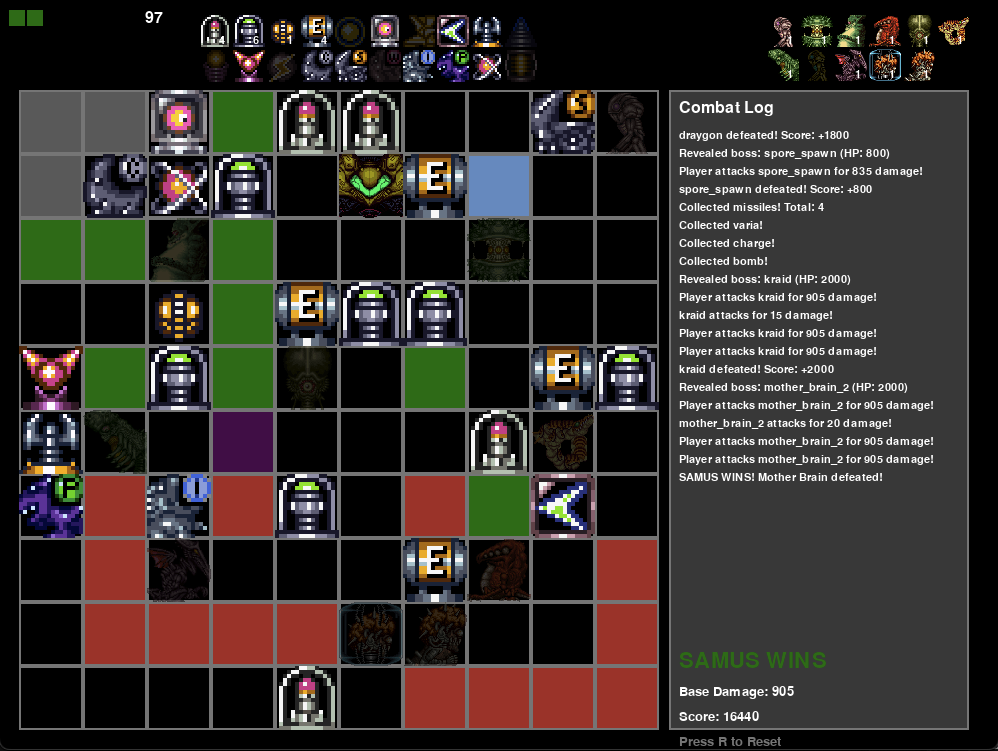
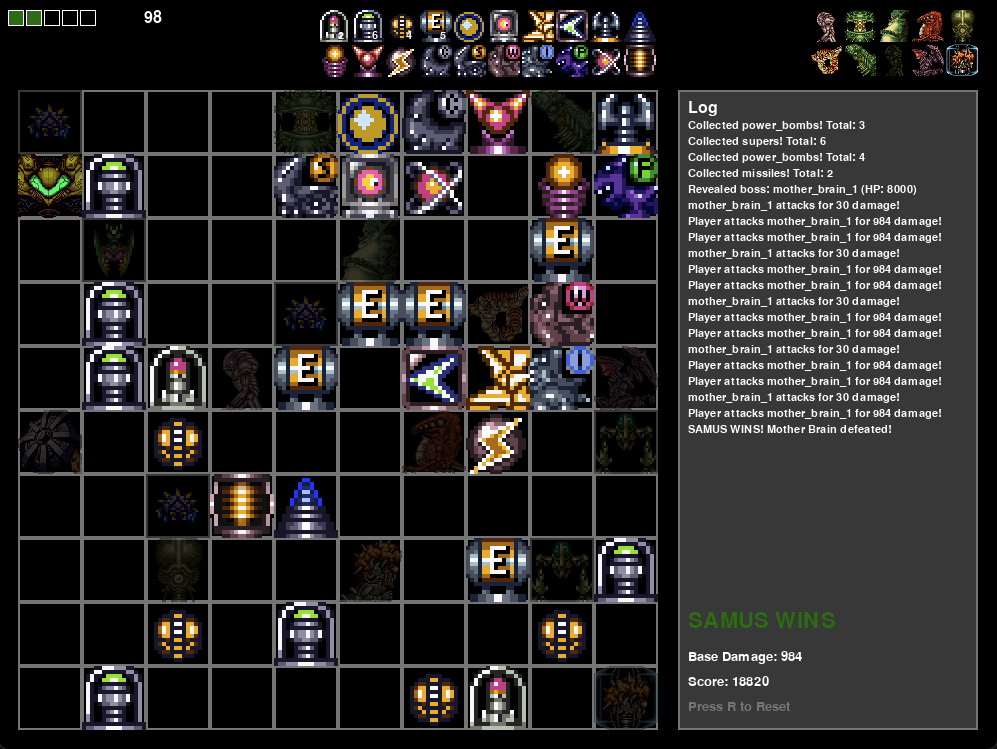
v1 demo ready

diff --git a/main.py b/main.py
@@ -25,7 +25,7 @@ INVENTORY_Y = 10  # Moved up
 HUD_WIDTH = 300  # Width for right-side combat info
 COMBAT_INFO_X = GRID_START_X + (GRID_SIZE * TILE_SIZE) + 20  # Right of grid with 10px spacing
 BOSS_HUD_WIDTH = 200  # Width for boss tracker
-BOSS_HUD_X = SCREEN_WIDTH - BOSS_HUD_WIDTH - 10  # Top right corner
+BOSS_HUD_X = SCREEN_WIDTH - BOSS_HUD_WIDTH - 20  # Top right corner
 
 # Colors
 BLACK = (0, 0, 0)
@@ -152,11 +152,11 @@ class Game:
             "gravity": False,   # Unique item (suit)
         }
         
-        # Initialize boss defeats tracking (no ship, ceres_station, or golden_four)
+        # Initialize boss defeats tracking (no ship or golden_four)
         boss_list = [
             "bomb_torizo", "spore_spawn", "kraid", "crocomire",
             "phantoon", "botwoon", "draygon", "gold_torizo",
-            "ridley", "mother_brain_1"
+            "ridley", "mother_brain_1", "ceres_station"
         ]
         self.boss_defeats = {boss: 0 for boss in boss_list}
         
@@ -196,15 +196,15 @@ class Game:
                 "color": MARIDIA_BLUE
             },
             AreaType.TOURIAN: {
-                "bosses": ["mother_brain_1"],
-                "unique_items": ["xray", "gravity"],
+                "bosses": ["mother_brain_1", "mother_brain_2"],
+                "unique_items": ["xray"],
                 "consumables": ["missiles", "supers", "power_bombs", "energy_tank"],
                 "enemies": ["side_hopper", "ciser"],
                 "color": TOURIAN_YELLOW
             },
             AreaType.WRECKED_SHIP: {
                 "bosses": ["phantoon"],
-                "unique_items": [],  # No unique items in Wrecked Ship
+                "unique_items": ["gravity"],  # Gravity Suit found in Wrecked Ship
                 "consumables": ["missiles", "supers", "power_bombs", "energy_tank"],
                 "enemies": ["geemer", "skree"],
                 "color": WRECKED_SHIP_PURPLE
@@ -230,6 +230,7 @@ class Game:
             "gold_torizo": 3000,
             "ridley": 6000,
             "mother_brain_1": 8000,
+            "mother_brain_2": 4000,
             "samus_ship": 0,  # Ship has no health - it's the starting point
             "ceres_station": 1000,
             "golden_four": 6000
@@ -254,41 +255,60 @@ class Game:
         # Create area map (hidden from player)
         self.area_map = [[None for _ in range(GRID_SIZE)] for _ in range(GRID_SIZE)]
         
-        # Step 1: Build connected areas first using seed points
-        area_types = list(areas.keys())
-        area_seeds = []
+        # Step 1: Define all area types that MUST be placed
+        all_area_types = list(areas.keys())
         
-        # Place area seed points with good spacing
-        seed_positions = [
-            (2, 2), (7, 2), (2, 7), (7, 7), (4, 4), (0, 0), (9, 0)
-        ]
+        # Step 2: Place each area type with guaranteed minimum size and connectivity
+        for area_type in all_area_types:
+            # Find a suitable starting position
+            attempts = 0
+            while attempts < 50:  # Prevent infinite loops
+                if area_type == AreaType.CRATERIA:
+                    # Crateria should start near top-left (ship location)
+                    start_x, start_y = random.randint(0, 3), random.randint(0, 3)
+                elif area_type == AreaType.TOURIAN:
+                    # Tourian should be in a corner (Mother Brain's lair)
+                    corner = random.choice([(0, 0), (9, 0), (0, 9), (9, 9)])
+                    start_x, start_y = corner
+                elif area_type == AreaType.WRECKED_SHIP:
+                    # Wrecked ship should be smaller and isolated
+                    start_x, start_y = random.randint(1, 8), random.randint(1, 8)
+                else:
+                    # Other areas can be anywhere
+                    start_x, start_y = random.randint(1, 8), random.randint(1, 8)
+                
+                # Check if this position is available
+                if self.area_map[start_y][start_x] is None:
+                    break
+                attempts += 1
+            
+            # If we couldn't find a spot, pick the first available None
+            if attempts >= 50:
+                for y in range(GRID_SIZE):
+                    for x in range(GRID_SIZE):
+                        if self.area_map[y][x] is None:
+                            start_x, start_y = x, y
+                            break
+                    else:
+                        continue
+                    break
+            
+            # Determine area size based on type
+            if area_type == AreaType.WRECKED_SHIP:
+                area_size = random.randint(6, 12)  # Smaller area
+            elif area_type == AreaType.CERES:
+                area_size = random.randint(8, 15)  # Medium area
+            else:
+                area_size = random.randint(12, 25)  # Larger areas
+            
+            # Create the connected area
+            self.flood_fill_area(start_x, start_y, area_type, area_size)
         
-        for i, (x, y) in enumerate(seed_positions):
-            if i < len(area_types):
-                area_type = area_types[i]
-                area_seeds.append((x, y, area_type))
-        
-        # Step 2: Build connected areas from seed points
-        for x, y, area_type in area_seeds:
-            # Determine area size randomly (12-25 tiles)
-            area_size = random.randint(12, 25)
-            self.flood_fill_area(x, y, area_type, area_size)
-        
-        # Step 3: Fill remaining areas with random assignment
+        # Step 3: Fill any remaining None areas with Crateria (default)
         for y in range(GRID_SIZE):
             for x in range(GRID_SIZE):
                 if self.area_map[y][x] is None:
-                    # Randomly assign to one of the existing areas
-                    existing_areas = []
-                    for ay in range(GRID_SIZE):
-                        for ax in range(GRID_SIZE):
-                            if self.area_map[ay][ax] is not None:
-                                existing_areas.append(self.area_map[ay][ax])
-                    
-                    if existing_areas:
-                        self.area_map[y][x] = random.choice(existing_areas)
-                    else:
-                        self.area_map[y][x] = AreaType.CRATERIA
+                    self.area_map[y][x] = AreaType.CRATERIA
         
         # Step 4: Place bosses within their appropriate areas
         self.boss_placements = {}
@@ -319,23 +339,42 @@ class Game:
         self.place_items_in_areas(areas, boss_health, enemy_health)
         
     def flood_fill_area(self, start_x: int, start_y: int, area_type: AreaType, max_tiles: int):
-        """Flood fill to create connected area around a boss"""
+        """Flood fill to create connected area with better connectivity"""
         if self.area_map[start_y][start_x] is not None:
             return
             
+        # Use a more sophisticated flood fill that prioritizes connectivity
         stack = [(start_x, start_y)]
         placed = 0
+        visited = set()
         
         while stack and placed < max_tiles:
             x, y = stack.pop(0)
-            if (0 <= x < GRID_SIZE and 0 <= y < GRID_SIZE and 
-                self.area_map[y][x] is None):
-                self.area_map[y][x] = area_type
-                placed += 1
+            
+            # Skip if already visited or out of bounds
+            if (x, y) in visited or not (0 <= x < GRID_SIZE and 0 <= y < GRID_SIZE):
+                continue
                 
-                # Add adjacent tiles to stack
-                for dx, dy in [(0, 1), (1, 0), (0, -1), (-1, 0)]:
-                    stack.append((x + dx, y + dy))
+            # Skip if already assigned
+            if self.area_map[y][x] is not None:
+                continue
+                
+            self.area_map[y][x] = area_type
+            placed += 1
+            visited.add((x, y))
+            
+            # Add neighbors with priority: cardinals first, then diagonals
+            # This ensures better connectivity
+            neighbors = [
+                (x, y-1), (x, y+1), (x-1, y), (x+1, y),  # Cardinals first
+                (x-1, y-1), (x+1, y-1), (x-1, y+1), (x+1, y+1)  # Diagonals second
+            ]
+            
+            for nx, ny in neighbors:
+                if ((nx, ny) not in visited and 
+                    0 <= nx < GRID_SIZE and 0 <= ny < GRID_SIZE and 
+                    self.area_map[ny][nx] is None):
+                    stack.append((nx, ny))
                     
     def find_nearest_area(self, x: int, y: int) -> AreaType:
         """Find the nearest area type"""
@@ -362,7 +401,8 @@ class Game:
                 tile.health = 0
                 tile.max_health = 0
                 self.revealed_tiles.append((x, y))
-                self.log_combat("Welcome to Crateria! Your ship awaits.")
+                self.log_combat("You've arrived at Zebes.")
+                self.log_combat("destroy Mother Brain to save Samus.")
             else:
                 tile = Tile(x, y, TileType.BOSS, boss_id, area_type)
                 tile.health = boss_health[boss_id]
@@ -439,7 +479,7 @@ class Game:
         boss_list = [
             "bomb_torizo", "spore_spawn", "kraid", "crocomire",
             "phantoon", "botwoon", "draygon", "gold_torizo",
-            "ridley", "mother_brain_1"
+            "ridley", "mother_brain_1", "ceres_station"
         ]
         self.boss_defeats = {boss: 0 for boss in boss_list}
         
@@ -675,6 +715,22 @@ class Game:
                         if tile.tile_type == TileType.BOSS:
                             self.boss_defeats[tile.item_id] += 1
                             
+                            # Special Ceres Station handling
+                            if tile.item_id == "ceres_station":
+                                self.log_combat("You saved Ceres Station!")
+                                self.log_combat("Ridley's life down by 1000!")
+                                # Reduce Ridley's health if he exists
+                                for y2 in range(GRID_SIZE):
+                                    for x2 in range(GRID_SIZE):
+                                        ridley_tile = self.grid[y2][x2]
+                                        if (ridley_tile.tile_type == TileType.BOSS and 
+                                            ridley_tile.item_id == "ridley" and 
+                                            ridley_tile.health > 0):
+                                            ridley_tile.health = max(0, ridley_tile.health - 1000)
+                                            self.log_combat(f"Ridley's health reduced to {ridley_tile.health}!")
+                                self.score += 600
+                                continue
+                            
                             # Check for Mother Brain victory
                             if tile.item_id == "mother_brain_1":
                                 self.game_over = True
@@ -686,8 +742,8 @@ class Game:
                             boss_scores = {
                                 "bomb_torizo": 500, "spore_spawn": 800, "kraid": 2000, "crocomire": 1200,
                                 "phantoon": 1500, "botwoon": 1000, "draygon": 1800, "gold_torizo": 1600,
-                                "ridley": 2500, "mother_brain_1": 5000,
-                                "samus_ship": 800, "ceres_station": 600, "golden_four": 4000
+                                "ridley": 2500, "mother_brain_1": 5000, "mother_brain_2": 3000,
+                                "samus_ship": 800, "golden_four": 4000
                             }
                             self.score += boss_scores.get(tile.item_id, 1000)
                             self.log_combat(f"{tile.item_id} defeated! Score: +{boss_scores.get(tile.item_id, 1000)}")
@@ -805,19 +861,17 @@ class Game:
                         self.sprite_manager.draw_boss(self.screen, tile.item_id, 
                                                     screen_x, screen_y, TILE_SIZE)
                         
-                        # Draw boss health bar at bottom
-                        if tile.health > 0:
-                            self.draw_health_bar(screen_x, screen_y + TILE_SIZE + 2, 
-                                               tile.health, tile.max_health)
+                        # Draw boss health bar at bottom (always show for bosses)
+                        self.draw_health_bar(screen_x, screen_y + TILE_SIZE + 2, 
+                                           tile.health, tile.max_health)
                                                
                     elif tile.tile_type == TileType.ENEMY:
                         self.sprite_manager.draw_enemy(self.screen, tile.item_id, 
                                                      screen_x, screen_y, TILE_SIZE)
                         
-                        # Draw enemy health bar at bottom
-                        if tile.health > 0:
-                            self.draw_health_bar(screen_x, screen_y + TILE_SIZE + 2, 
-                                               tile.health, tile.max_health)
+                        # Draw enemy health bar at bottom (always show for enemies)
+                        self.draw_health_bar(screen_x, screen_y + TILE_SIZE + 2, 
+                                           tile.health, tile.max_health)
                 elif tile.state == TileState.DESTROYED:
                     # Draw destroyed boss as grayscaled sprite
                     pygame.draw.rect(self.screen, BLACK, 
@@ -834,15 +888,19 @@ class Game:
                                                             screen_x, screen_y, TILE_SIZE)
                                             
     def draw_health_bar(self, x: int, y: int, current: int, maximum: int):
-        """Draw a health bar above a tile"""
+        """Draw a health bar below a tile"""
         bar_width = TILE_SIZE
-        bar_height = 6
+        bar_height = 8  # Made slightly thicker
         health_ratio = current / maximum if maximum > 0 else 0
         
-        # Background
-        pygame.draw.rect(self.screen, NORFAIR_RED, (x, y, bar_width, bar_height))
-        # Health
-        pygame.draw.rect(self.screen, BRINSTAR_GREEN, (x, y, int(bar_width * health_ratio), bar_height))
+        # Background (dark red)
+        pygame.draw.rect(self.screen, (120, 0, 0), (x, y, bar_width, bar_height))
+        # Border
+        pygame.draw.rect(self.screen, WHITE, (x, y, bar_width, bar_height), 1)
+        # Health (bright green)
+        if health_ratio > 0:
+            health_width = int(bar_width * health_ratio)
+            pygame.draw.rect(self.screen, (0, 255, 0), (x, y, health_width, bar_height))
         
     def draw_energy_display(self):
         """Draw energy display like Metroid (tanks + remainder)"""
@@ -877,17 +935,18 @@ class Game:
                 pygame.draw.rect(self.screen, BRINSTAR_GREEN, (tank_x + 1, tank_y + 1, tank_size - 2, tank_size - 2))
             # Empty tank - no fill (shows as empty square)
             
-        # Draw remainder number to the right of squares
-        if remainder > 0:
-            number_x = x + (tanks_per_row * (tank_size + tank_spacing)) + 10
-            energy_text = font.render(str(remainder), True, WHITE)
-            self.screen.blit(energy_text, (number_x, y))
+        # Draw remainder number to the right of squares (always show)
+        # Calculate position based on actual number of tanks drawn
+        actual_tanks_this_row = min(total_tanks, tanks_per_row)
+        number_x = x + (actual_tanks_this_row * (tank_size + tank_spacing)) + 15
+        energy_text = font.render(str(remainder), True, WHITE)
+        self.screen.blit(energy_text, (number_x, y))
         
     def draw_inventory(self):
         """Draw the two-row inventory bar to the right of energy display"""
         # Start inventory to the right of energy display
-        start_x = 200  # Right of energy tanks
-        y = INVENTORY_Y + 5
+        start_x = 320  # Right of energy tanks
+        y = INVENTORY_Y
         
         # Organize items into two rows
         items = list(self.inventory.keys())
@@ -945,14 +1004,14 @@ class Game:
         
         # Title
         font = pygame.font.Font(None, 24)
-        title = font.render("Combat Log", True, WHITE)
+        title = font.render("Log", True, WHITE)
         self.screen.blit(title, (x + 10, y + 10))
         
         # Combat log
         font_small = pygame.font.Font(None, 16)
         for i, message in enumerate(self.combat_log[-30:]):  # Show more messages
             text = font_small.render(message, True, WHITE)
-            self.screen.blit(text, (x + 10, y + 40 + i * 18))
+            self.screen.blit(text, (x + 10, y + 30 + i * 16))  # Reduced spacing and moved up
             
         # Current stats at bottom (fixed position)
         y_stats = y + height - 80
@@ -984,17 +1043,17 @@ class Game:
     def draw_boss_tracker(self):
         """Draw boss tracker in top right (like item HUD)"""
         x = BOSS_HUD_X
-        y = INVENTORY_Y + 5
+        y = INVENTORY_Y
         
         # Boss icons in two rows (no background, no title) - removed ship, ceres_station, and golden_four
         boss_list = [
             "bomb_torizo", "spore_spawn", "kraid", "crocomire",
             "phantoon", "botwoon", "draygon", "gold_torizo",
-            "ridley", "mother_brain_1", "mother_brain_2"
+            "ridley", "mother_brain_1"
         ]
         
         icon_size = 32  # Match item HUD size
-        icons_per_row = 6  # Even rows: 6 per row for 11 bosses
+        icons_per_row = 5  # Even rows: 6 per row for 11 bosses
         spacing = 2
         
         # Calculate starting position to right-align
